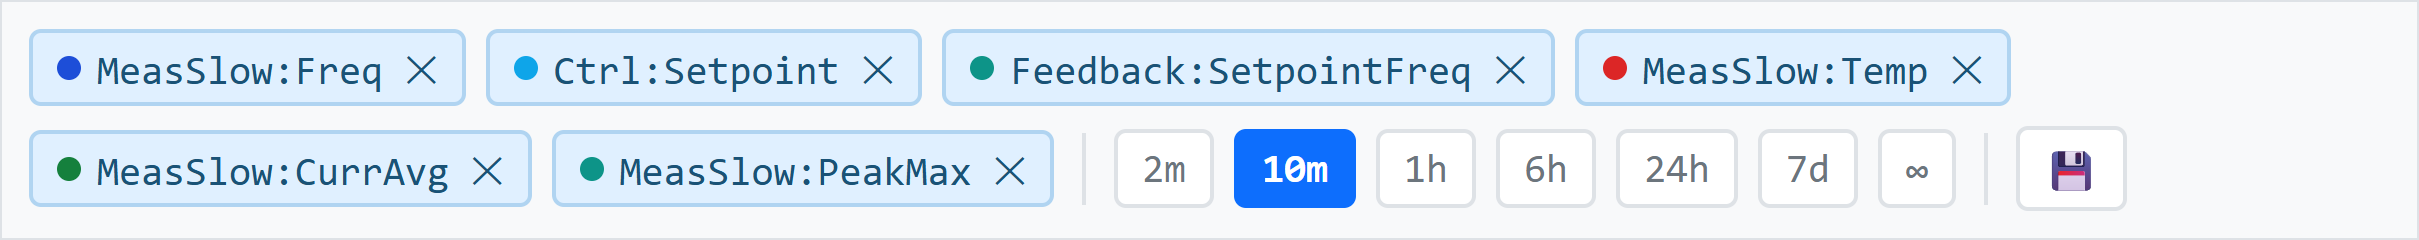
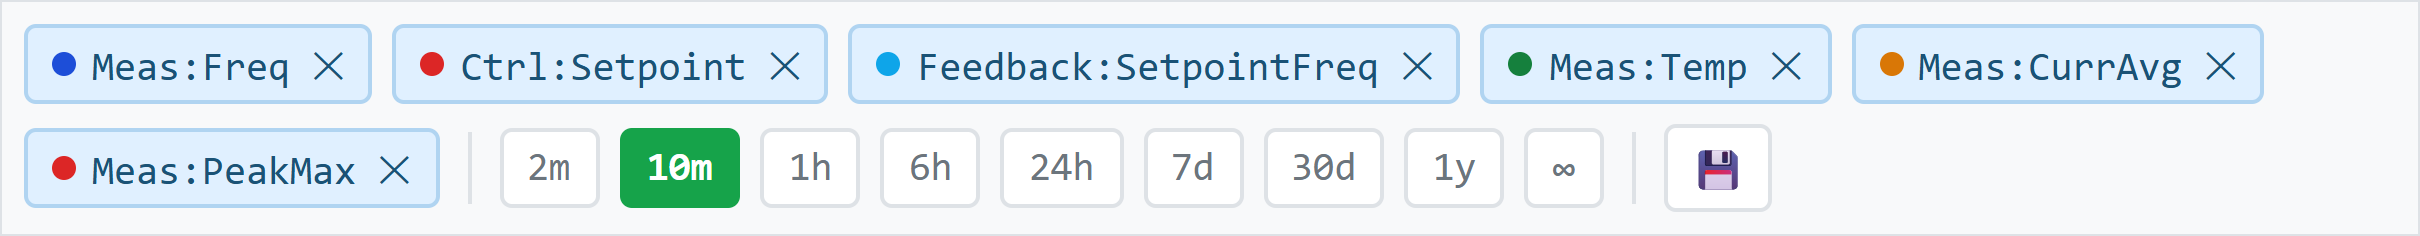
Readme + Images

diff --git a/readme.md b/readme.md
@@ -13,18 +13,23 @@ Change the file, restart, get a different device tool.
 **Modes:**
 
 - **Desktop**: `Modra.exe` via PyWebview
-- **HTTP**: `py serve.py` → `localhost:8000`, any browser
+- **HTTP**: `py serve.py` for the API, `tonka serve modra -r` for the page → `localhost:3000`, any browser
 - **Simulator**: pick the **SIM** port in the toolbar, no hardware
 
 ## Quick start
+
+Modra sits in a [TonkaJSX](https://github.com/Xaeian/TonkaJSX) workspace as `modra/`, and `tonka` builds its page:
 
 ```bash
 py -3.12 -m venv .venv
 ./.venv/Scripts/activate
 py -m pip install -r requirements.txt
+tonka build modra -i # the page
 py api.py # desktop window
-py serve.py # HTTP server
 ```
+
+For any browser, `py serve.py` serves the API on `localhost:8000` and `tonka serve modra -r` the page on `localhost:3000`.
+`-r` drops the desktop build first, so `tonka build modra -i` again before the next `py api.py`.
 
 Or grab `Modra.exe` from [Releases](https://github.com/Xaeian/Modra/releases) and run it.
 It asks which `regs.csv` to use on startup, so the same binary serves any device - tick _don't ask again_ once you have settled on one.
@@ -44,6 +49,7 @@ History and UI state are keyed by register name, so an updated map keeps them; a
 - **`bits`**: one toggle per labeled bit, multi-select
 - **`hex`**: input formatted as `0xNNNN`
 - **`ver`**: read-only `X.YY.ZZ`
+- **nullable** _(`?` before the type)_: a **null** checkbox writes the reserved value
 
 **Access badges:**
 
@@ -56,6 +62,7 @@ History and UI state are keyed by register name, so an updated map keeps them; a
 
 - **yellow**: pending edit _(not sent)_
 - **red outline**: out of range
+- **dashed red**: too large for its register, it would be stored as a different number; **Send** asks first
 - **blank**: rule register with no active slot
 - **strikethrough**: ignored
 
@@ -75,10 +82,13 @@ History and UI state are keyed by register name, so an updated map keeps them; a
 - ⬆ **Send(n)** flush pending edits to device
 - ✕ **Reset** discard pending edits
 - 📈 toggle chart panel
+- device widgets: one button each, for the widgets the map fits
 - 🚫 toggle show-disabled mode
 - ☰ toggle settings panel
+- **A-** / **A+** zoom _(desktop window; also Ctrl - / Ctrl + / Ctrl 0)_
 
 Connect flow: pick port → type address _(1-247)_ → **⚡**.
+A device with access levels is unlocked on connect, and again after it reboots, when the build knows its key.
 Polling reads **R**/**RW**/**RWs** at the configured interval, and keeps retrying after a burst of read errors, so a transient bus glitch recovers on its own.
 Validation is advisory: the frontend marks out-of-range values and warns on **Send**, but the device is written whatever you typed.
 
@@ -130,6 +140,7 @@ widgets = ectra-guide, ectra-tables
 
 The bundled Ectra widgets are a PMSM guide (basic settings by topic, what limits the drive now, what each fault means) and editors for the `Volt`, `Curr`, `Rise` and `Fall` tables.
 Press `w` to toggle the first widget available for the current map; additional widgets have their own toolbar buttons.
+A widget that fails shows its error in its own panel, and the rest of the app keeps working.
 
 ## Settings ☰
 
@@ -137,9 +148,12 @@ Press `w` to toggle the first widget available for the current map; additional w
 - **Interval**: polling interval _(ms)_, drives both device polling and UI refresh rate
 - **Retries**: per-block retry budget on read errors
 - **History**: raw retention _(days)_; older data survives in coarser minute/hour/day archives
-- **Address scan**: enter `1-10, 12, 100-110` → **🔍 Scan**, click result to connect
+- **auto-send**: each value goes out on Enter, Tab or click, instead of waiting for **Send**
+- **Address scan**: enter `1-10, 12, 100-110` → **🔍 Scan**, pick a result to connect
+- **🗺 Map**: load another `regs.csv` _(the page reloads on it)_
 - **📂 Import**: load `.ini` / `.csv` into pending edits _(no auto-send; reads locale CSV with `;` + decimal comma)_
 - **💾 CSV** / 💾 **INI**: export current RWs values to file, after the registers marked `info` _(serial number, versions)_; import takes back only the RWs
+- **variant** + **🏭 Defaults**: stage the `default` column of that device variant as pending edits; review, then **Send**
 - **🧹 Clear DB**: wipe stored poll history _(data.db)_
 
 ## Keyboard shortcuts
@@ -156,7 +170,7 @@ Fire when nothing is focused _(Gmail / GitHub pattern)_, neighbours on QWERTY:
 | File | Role | Edited by |
 |---|---|---|
 | [`regs.csv`](regs.csv) | register map, source of truth _(format: [`modbus.md`](modbus.md), plus the app's `info` column)_ | you, or picked on first run |
-| `app.ini` | build metadata, bundled simulator/widget selection, device unlock _(`[auth]`)_ | build author |
+| `app.ini` | build metadata, bundled simulator/widget selection, device unlock | build author |
 | `serial.ini` | connection state | app + you |
 | `view.json` | UI state _(monitor panels, ignored list)_ | app + you |
 | `data.db` | SQLite poll history, one table per addr | app |
@@ -188,6 +202,7 @@ The `ectra` package does this for the PMSM drive - see [`ectra/readme.md`](ectra
 py -3.12 -m venv .venv
 ./.venv/Scripts/activate
 py -m pip install -r requirements.txt
+tonka build modra -i # the page goes inside the exe
 ./build.bat
 ```
 
